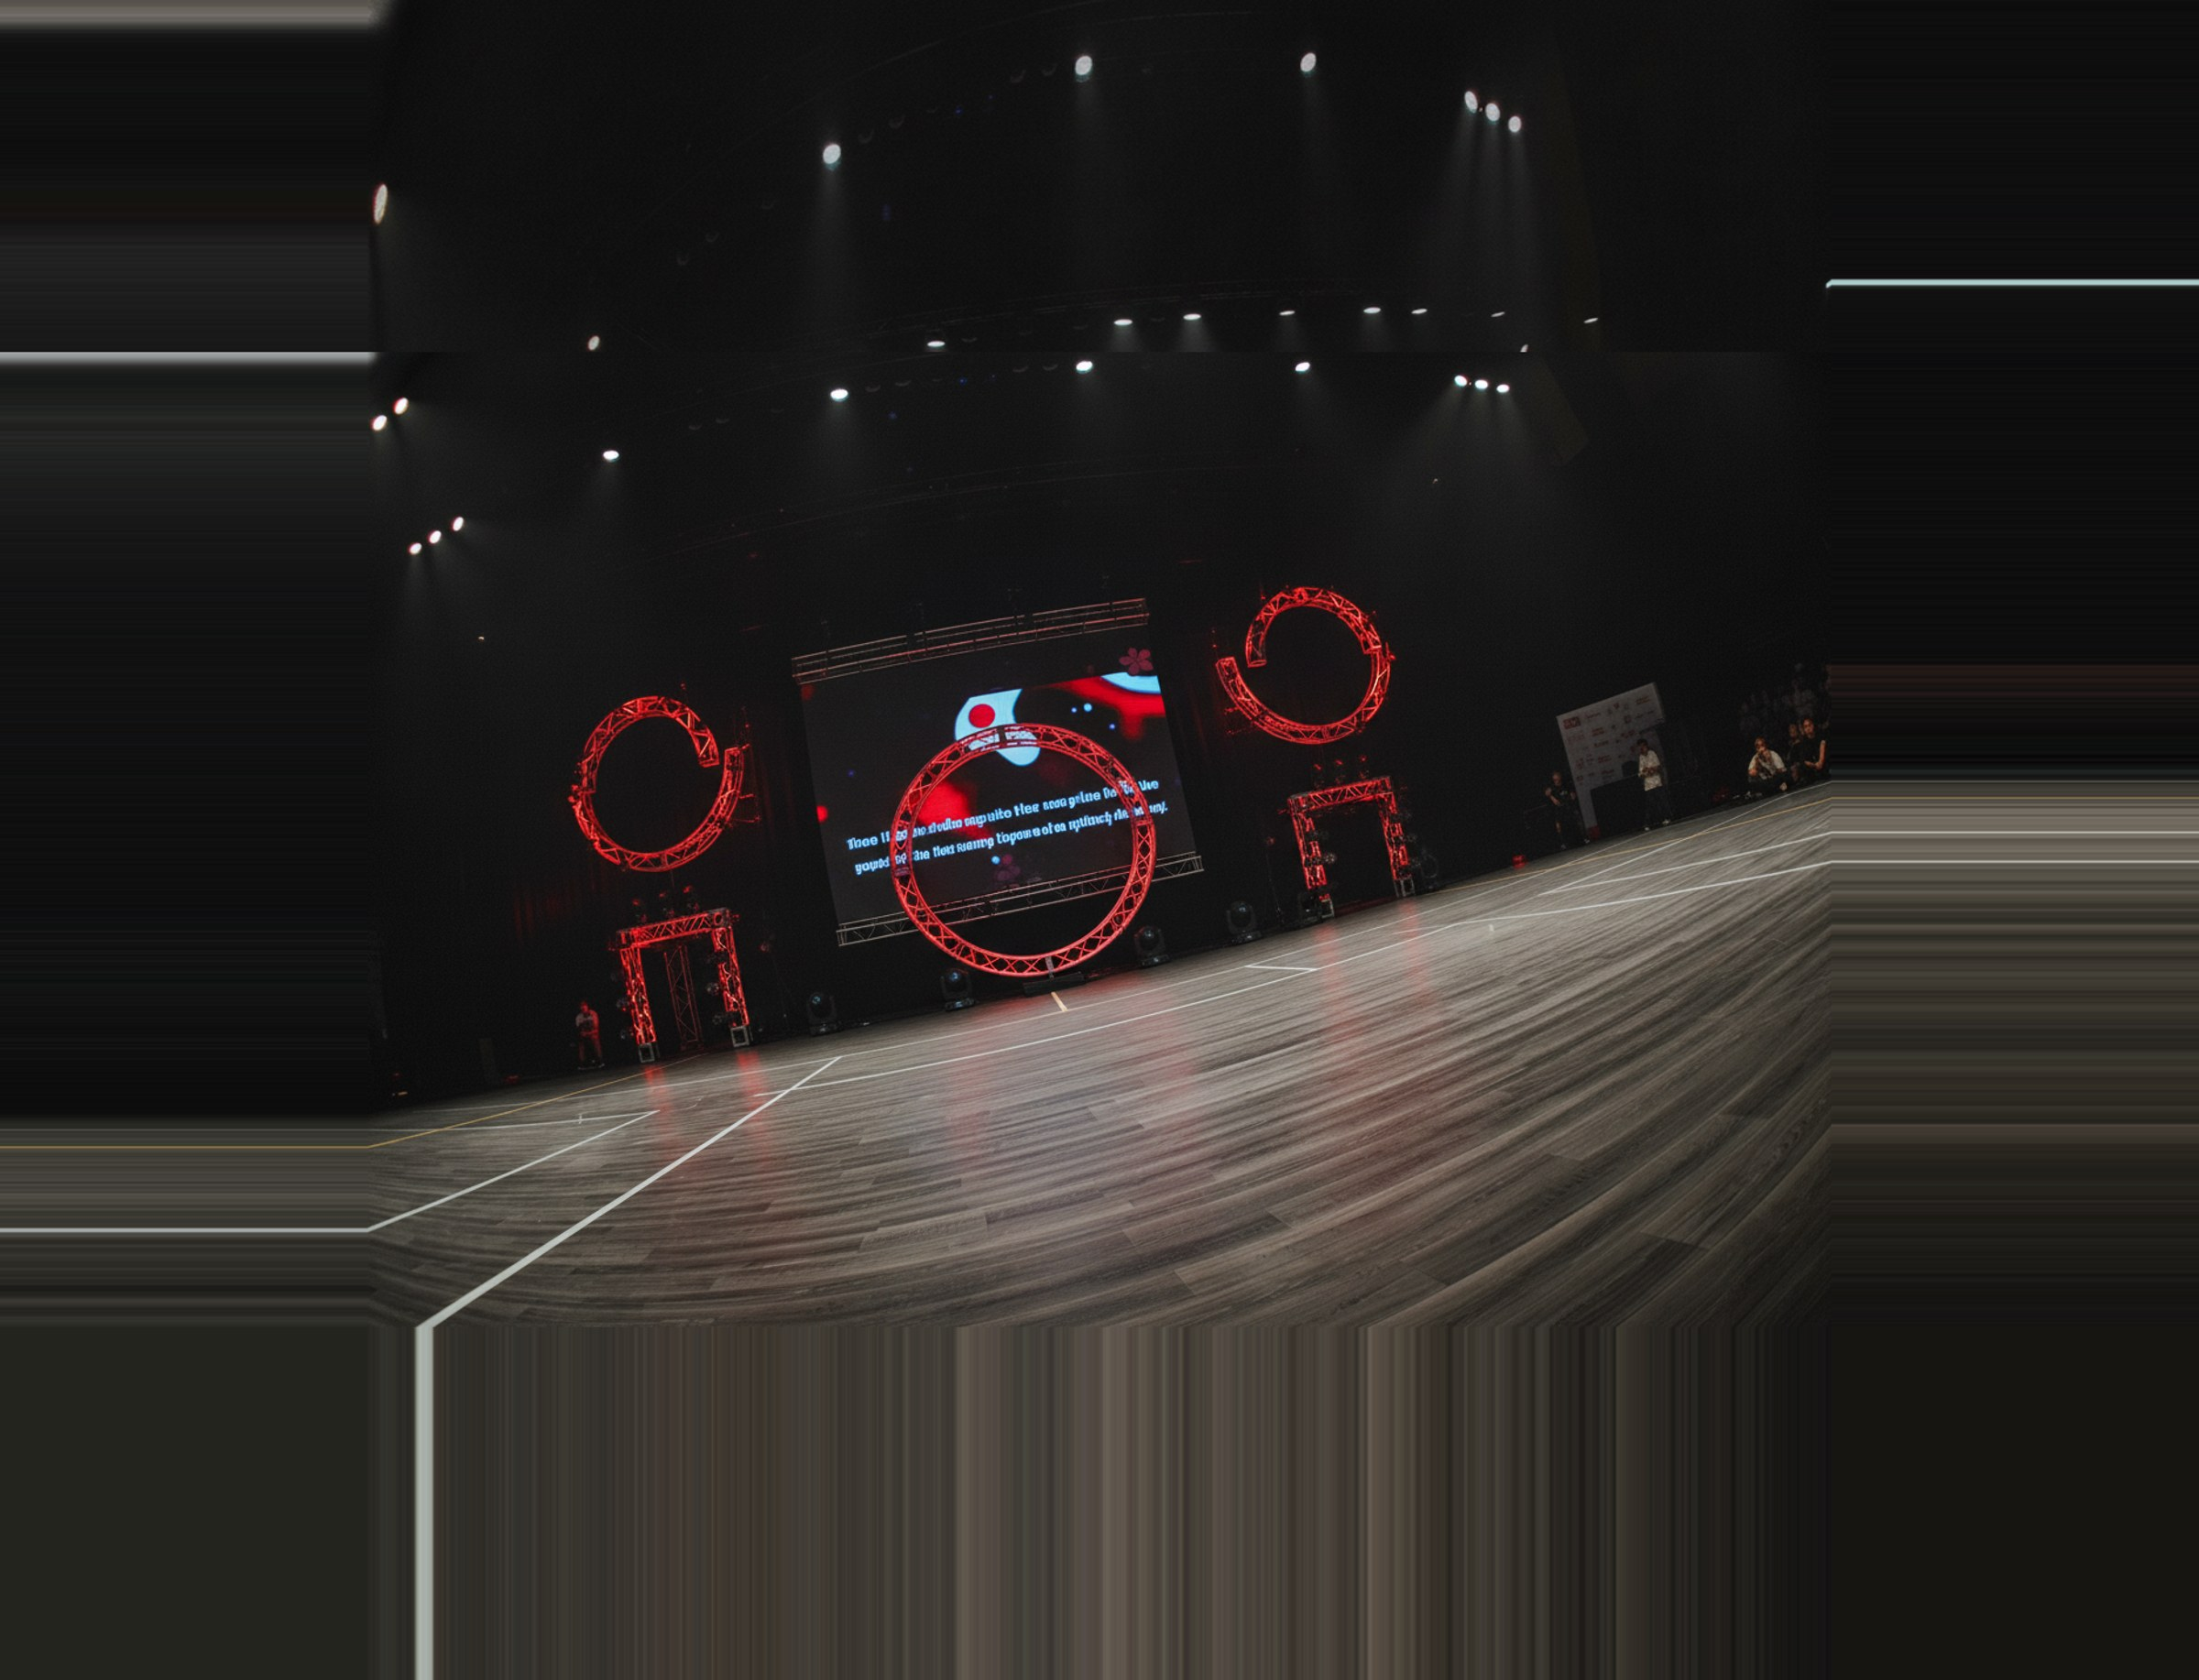
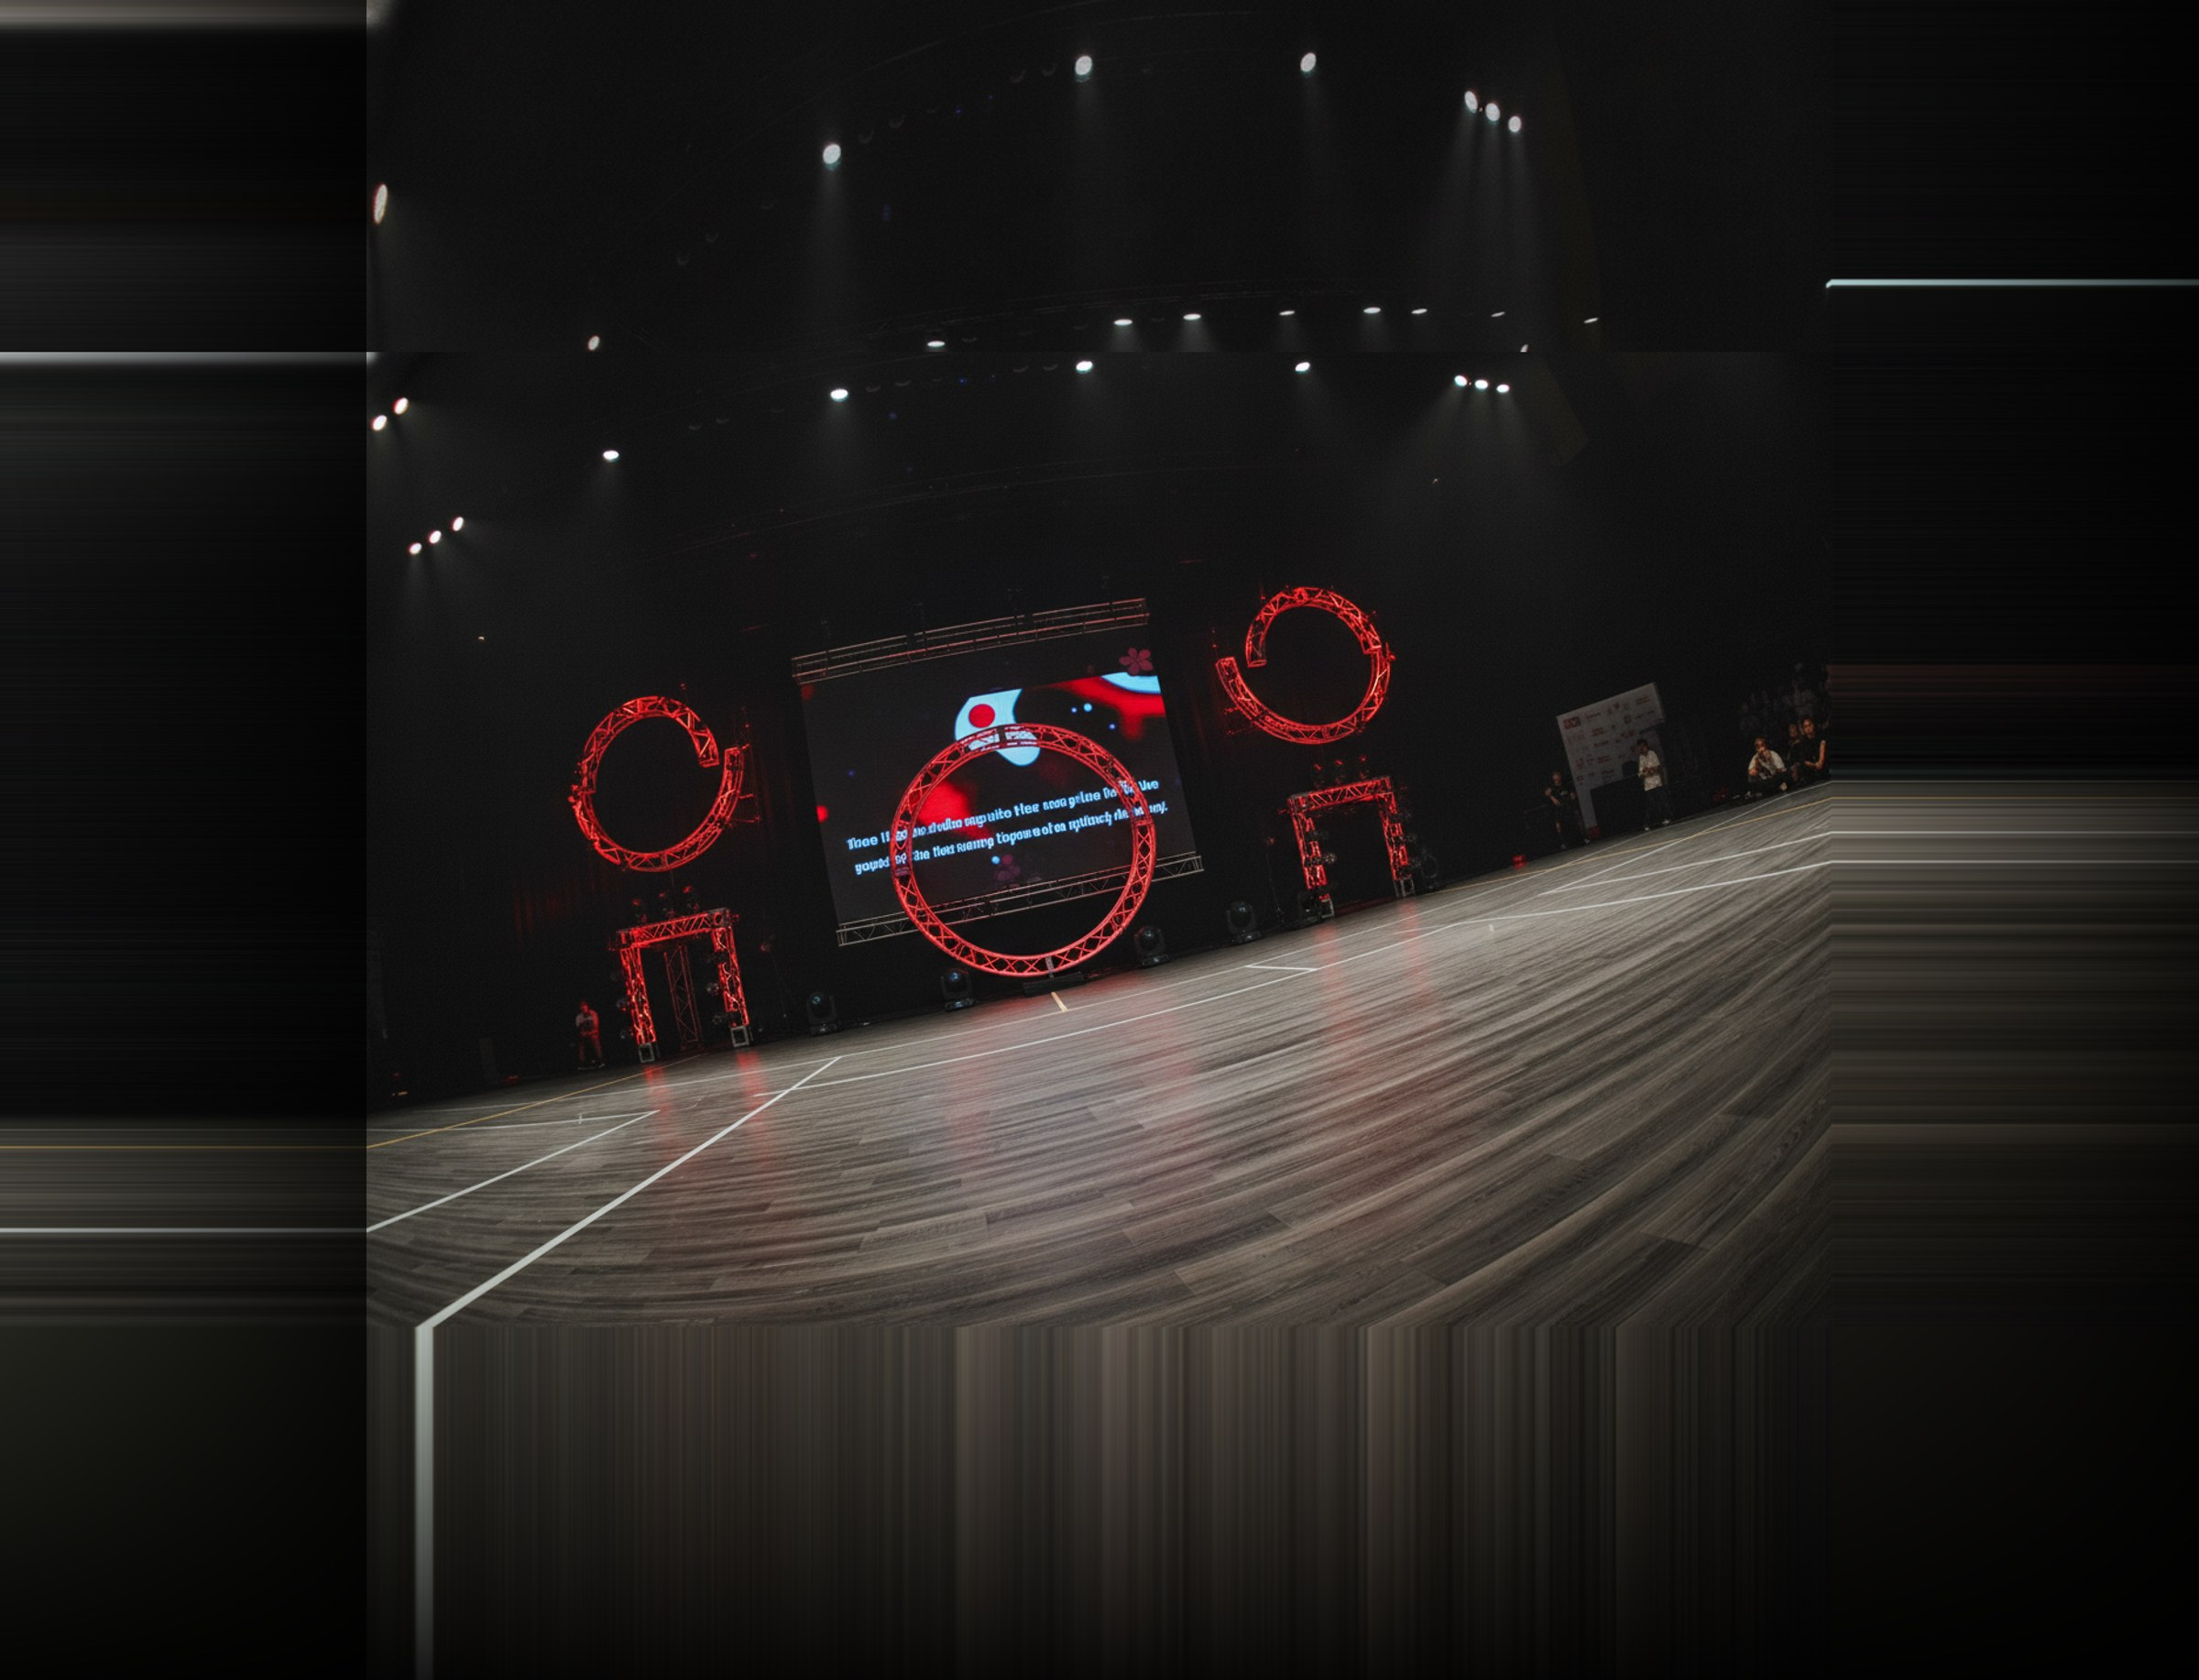
natural dark bg extension (pit/wings), aspect-responsive hero distance (portrait pulls back, no member cut)

diff --git a/index.html b/index.html
@@ -126,8 +126,10 @@ async function main(){
   function frame(){
     const raw = FREEZE!=null?parseFloat(FREEZE):(started?clock.getElapsedTime():0);
     const el=raw%CFG.dur, t2=el;
-    // camera reveal
-    let z; if(t2<=CFG.revEnd) z=-8.5+8.5*eout(t2/CFG.revEnd); else z=-0.45*eout((t2-CFG.revEnd)/(CFG.dur-CFG.revEnd));
+    // camera reveal (ヒーロー位置=アスペクトで自動フィット: 縦画面ほど引いて全員入れる)
+    const asp=innerWidth/innerHeight;
+    const hz=Math.min(6.5, Math.max(-2.5, 5.4/Math.max(0.4,asp) - 6.5));
+    let z; if(t2<=CFG.revEnd) z=-8.5+(hz+8.5)*eout(t2/CFG.revEnd); else z=hz-0.4*eout((t2-CFG.revEnd)/(CFG.dur-CFG.revEnd));
     ptx+=(tx-ptx)*0.06; pty+=(ty-pty)*0.06;
     camera.position.set(ptx*0.35, -pty*0.22, z); applyShift();
     // logo appear @7s